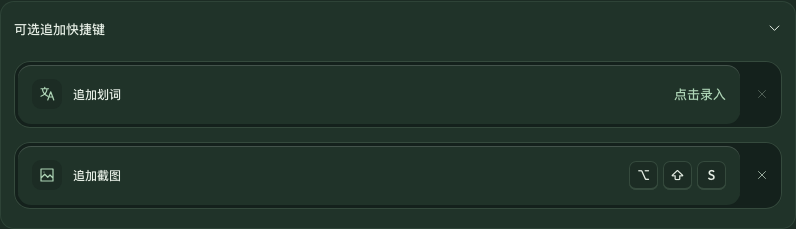
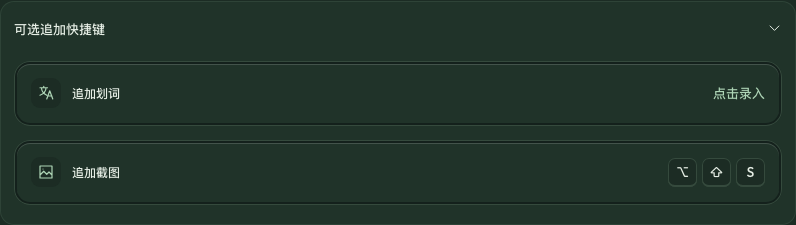
fix: simplify shortcut rows and preserve explicit minimize intent

diff --git a/tests/ui/settings.spec.ts b/tests/ui/settings.spec.ts
@@ -87,7 +87,7 @@ async function settingsFixture(page: Page, delayLoad = false, initialName = 'Cus
           return record;
         }
         if (cmd === 'begin_shortcut_recording') return 1;
-        if (cmd === 'end_shortcut_recording') return { registered: true, error: null };
+        if (cmd === 'end_shortcut_recording') {if(w.deferEndRecording)await new Promise(resolve=>w.releaseRecording=resolve);return { registered: true, error: null };}
         return null;
       },
     };
@@ -832,15 +832,22 @@ test('append recorders capture key combinations, cancel safely and save cleared 
  await page.getByRole('button',{name:'Save changes',exact:true}).click();
  expect(await page.evaluate(()=>(window as any).settings.append_selection_shortcut)).toBe('Alt+Shift+D');
  expect(await page.evaluate(()=>(window as any).settings.append_screenshot_shortcut)).toBe('Alt+Shift+S');
+ await expect(page.getByRole('button',{name:'Disable append selection shortcut',exact:true})).toHaveCount(0);
+ await selection.click();
  await page.getByRole('button',{name:'Disable append selection shortcut',exact:true}).click();
  await expect(selection.locator('kbd')).toHaveCount(0);
  expect(await page.evaluate(()=>(window as any).settings.append_selection_shortcut)).toBe('Alt+Shift+D');
  await page.getByRole('button',{name:'Save changes',exact:true}).click();
  expect(await page.evaluate(()=>(window as any).settings.append_selection_shortcut)).toBeNull();
  expect(await page.evaluate(()=>(window as any).settings.append_screenshot_shortcut)).toBe('Alt+Shift+S');
+ await screenshot.click();await expect(screenshot).toContainText('Press keys…');await page.keyboard.press('Delete');
+ await expect(screenshot.locator('kbd')).toHaveCount(0);
+ expect(await page.evaluate(()=>(window as any).settings.append_screenshot_shortcut)).toBe('Alt+Shift+S');
+ await page.getByRole('button',{name:'Revert',exact:true}).click();
  for(const width of [1100,850,620]) {
   await page.setViewportSize({width,height:820});
   const a=await selection.boundingBox(),b=await screenshot.boundingBox();expect(b!.y-a!.y-a!.height).toBeGreaterThanOrEqual(14);
+  for(const recorder of [selection,screenshot]){const outer=await recorder.locator('..').boundingBox(),inner=await recorder.boundingBox();expect(outer!.width-inner!.width).toBeLessThanOrEqual(6);}
   expect(await page.evaluate(()=>document.documentElement.scrollWidth<=innerWidth)).toBe(true);
  }
  await page.setViewportSize({width:1100,height:820});
@@ -851,4 +858,20 @@ test('append recorders capture key combinations, cancel safely and save cleared 
  await page.locator('.optional-shortcuts summary').click();
  await page.locator('.optional-shortcuts').screenshot({path:'.ai-notes/append-recorders-dark.png',animations:'disabled'});
  expect(await page.evaluate(()=>(window as any).calls.filter((c:any)=>['translate_text','start_capture','retry_task'].includes(c.cmd)))).toEqual([]);
+});
+
+
+test('revert during delayed recorder cleanup preserves restored shortcuts and focus',async({page})=>{
+ await settingsFixture(page);await page.getByText('Optional append shortcuts',{exact:true}).click();
+ await recordAppendShortcut(page,'selection','D');await page.getByRole('button',{name:'Save changes',exact:true}).click();
+ await page.getByLabel('Default translation language',{exact:true}).selectOption('fr');
+ const selection=page.getByRole('button',{name:'Record append selection shortcut',exact:true});
+ await selection.click();await expect(selection).toContainText('Press keys…');
+ await page.evaluate(()=>{(window as any).deferEndRecording=true;});
+ await page.getByRole('button',{name:'Disable append selection shortcut',exact:true}).click();
+ await page.getByRole('button',{name:'Revert',exact:true}).click();
+ const language=page.getByLabel('Default translation language',{exact:true});await language.focus();
+ await page.evaluate(()=>(window as any).releaseRecording());
+ await expect(selection).not.toHaveClass(/recording/);await expect(selection.locator('kbd')).toHaveText(['⌥','⇧','D']);
+ await expect(language).toBeFocused();await expect(page.getByRole('button',{name:'Save changes',exact:true})).toBeDisabled();
 });

diff --git a/src/ShortcutRecorder.svelte b/src/ShortcutRecorder.svelte
@@ -110,6 +110,11 @@
       onrecordingchange(false);
     }
   }
+  function clear() {
+    if (!optional || phase !== "recording") return;
+    value = "";
+    void finish(false);
+  }
   function keydown(e: KeyboardEvent) {
     if (phase === "idle") return;
     if (e.key === "Tab" && !e.altKey && !e.ctrlKey && !e.metaKey) {
@@ -118,6 +123,18 @@
     }
     e.preventDefault();
     e.stopPropagation();
+    if (
+      optional &&
+      phase === "recording" &&
+      !e.altKey &&
+      !e.ctrlKey &&
+      !e.metaKey &&
+      !e.shiftKey &&
+      ["Backspace", "Delete"].includes(e.key)
+    ) {
+      void clear();
+      return;
+    }
     if (e.key === "Escape") {
       finish(false);
       return;
@@ -186,7 +203,7 @@
 </script>
 
 <svelte:window onkeyup={keyup} onblur={() => finish(false)} />
-<div class="shortcut-row" class:clearable={optional}>
+<div class="shortcut-row" class:optional>
   <button
     bind:this={button!}
     class="shortcut-recorder"
@@ -194,8 +211,8 @@
     aria-label={recordLabel}
     title={optional
       ? t(
-          "点击后按组合键；保存后生效",
-          "Click and press your shortcut; save to apply",
+          "点击录入；Delete 清空，Esc 取消；保存后生效",
+          "Click to record; Delete clears, Esc cancels; save to apply",
         )
       : recordLabel}
     onclick={() => (phase === "captured" ? finish(true) : begin())}
@@ -229,15 +246,17 @@
       {:else}{#each keys(draft || value) as key}<kbd>{key}</kbd>{/each}{/if}
     </span>
   </button>
-  {#if optional}<button
-      type="button"
-      class="icon-button shortcut-clear"
-      aria-label={selection
-        ? t("停用追加划词快捷键", "Disable append selection shortcut")
-        : t("停用追加截图快捷键", "Disable append screenshot shortcut")}
-      title={t("清空停用；保存后生效", "Clear to disable; save to apply")}
-      disabled={!value || phase !== "idle"}
-      onclick={() => (value = "")}><Icon name="close" size={14} /></button
-    >{/if}
+  {#if optional && phase === "recording"}<div class="shortcut-edit-actions">
+      <button
+        type="button"
+        class="shortcut-clear"
+        aria-label={selection
+          ? t("停用追加划词快捷键", "Disable append selection shortcut")
+          : t("停用追加截图快捷键", "Disable append screenshot shortcut")}
+        title={t("Delete 清空；保存后生效", "Delete to clear; save to apply")}
+        onpointerdown={(event) => event.preventDefault()}
+        onclick={clear}>{t("清空并停用", "Clear and disable")}</button
+      >
+    </div>{/if}
   {#if error}<p class="error" role="alert">{error}</p>{/if}
 </div>

diff --git a/src/onboarding.css b/src/onboarding.css
@@ -376,27 +376,28 @@ button.service-identity:hover {
   gap: 14px;
   margin: 18px 0 6px;
 }
-.shortcut-row.clearable {
-  display: grid;
-  grid-template-columns: minmax(0, 1fr) 32px;
+.shortcut-edit-actions {
+  display: flex;
+  justify-content: flex-end;
+  padding: 8px 12px;
+}
+.preferences-shell .shortcut-edit-actions .shortcut-clear {
+  min-height: 30px;
+  padding: 5px 10px;
+  border: 0;
+  border-radius: 7px;
+  color: var(--accent);
+  background: var(--accent-soft);
+  font-size: 12px;
+}
+.optional .shortcut-operation {
   align-items: center;
-  gap: 6px;
-  padding: 4px;
 }
-.clearable > .shortcut-clear {
-  justify-self: center;
-}
-.shortcut-row.clearable > .error {
-  grid-column: 1 / -1;
-}
-.clearable .shortcut-operation {
-  align-items: center;
-}
-.clearable .shortcut-keycaps {
+.optional .shortcut-keycaps {
   flex-wrap: wrap;
   justify-content: flex-end;
 }
-.clearable .shortcut-recording-text {
+.optional .shortcut-recording-text {
   font-size: 13px;
 }
 @media (prefers-reduced-motion: reduce) {

diff --git a/src-tauri/src/main.rs b/src-tauri/src/main.rs
@@ -241,7 +241,7 @@ fn main() {
                         }
                     } else {
                         state::release_temporary_top(app);
-                        if blur.is_some() && window.is_minimized().unwrap_or(false) {
+                        if window.is_minimized().unwrap_or(false) {
                             // Native minimize is also an explicit dismissal;
                             // return activation just as Esc/the hide button do.
                             state::hide(app);

diff --git a/docs/FAQ.md b/docs/FAQ.md
@@ -129,7 +129,7 @@ Translation and reply prompts have separate editors in Settings → Prompts. Ser
 
 ### Interaction details and FAQ
 
-- **Can I change the shortcuts?** Click any selection, screenshot or optional append shortcut button and press a key combination. Release the main key to finish, or press Esc to cancel. Clear an optional append binding to disable it. Recording and clearing take effect only after saving; conflicts are reported. The local second-step keys remain `D` / `S`.
+- **Can I change the shortcuts?** Click any selection, screenshot or optional append shortcut button and press a key combination. Release the main key to finish, or press Esc to cancel. While recording an optional append binding, choose Clear and disable or press Delete to clear it. Recording and clearing take effect only after saving; conflicts are reported. The local second-step keys remain `D` / `S`.
 - **Do D and S translate while I am typing?** In an input field, both keys type normally. Click the arrow or move focus outside the field before using the shortcut.
 - **Can I hold D / S until capture completes?** No. Release and press again after the source is ready. `Option` / `Alt`, `Control` or `Command` combinations, input-method composition and editable fields do not submit a translation.
 - **What happens if I press capture twice?** Duplicate requests are ignored during capture. The selection shortcut preserves the result while Yurelay has focus. A new screenshot can start after the current capture finishes or is cancelled.

diff --git a/docs/FAQ_cn.md b/docs/FAQ_cn.md
@@ -130,7 +130,7 @@
 
 ### 交互细节与 FAQ
 
-- **按键可以修改吗？** 全局划词、截图及可选追加快捷键都可点击对应按钮后直接按组合键录入；松开主键完成，Esc 取消。追加快捷键旁的清空按钮可停用该项，录入或清空均在保存后生效。冲突时会提示；窗口内的二次触发键固定为 `D` / `S`。
+- **按键可以修改吗？** 全局划词、截图及可选追加快捷键都可点击对应按钮后直接按组合键录入；松开主键完成，Esc 取消。追加快捷键进入录入状态后，可点击“清空并停用”或按 Delete 清空，录入或清空均在保存后生效。冲突时会提示；窗口内的二次触发键固定为 `D` / `S`。
 - **输入框里的 D / S 会翻译吗？** 编辑文字时正常输入 `D` / `S`；请点击“翻译 / 查询”，或将焦点移出输入框后再用快捷键。
 - **按住 D / S 等原文出现，会自动翻译吗？** 不会。原文就绪后需要松开并重新按一次；带 `Option`、`Control` 或 `Command` 的组合键、输入法组合输入和编辑框内的按键不会触发。
 - **连按两次捕获快捷键会怎样？** 当前取词或截图未结束时忽略重复请求；翻译框获得焦点后再次按划词快捷键会保留结果。截图完成或取消后，可再次触发。
